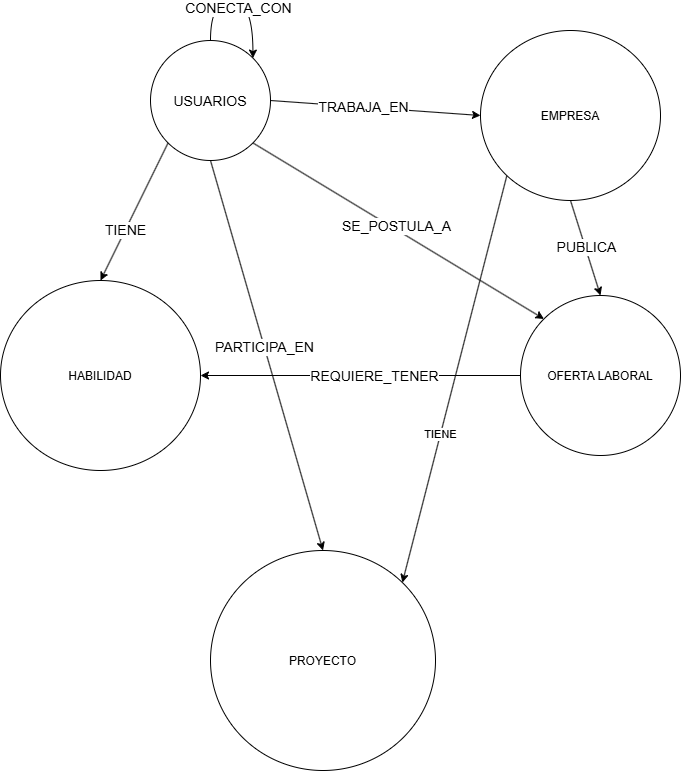
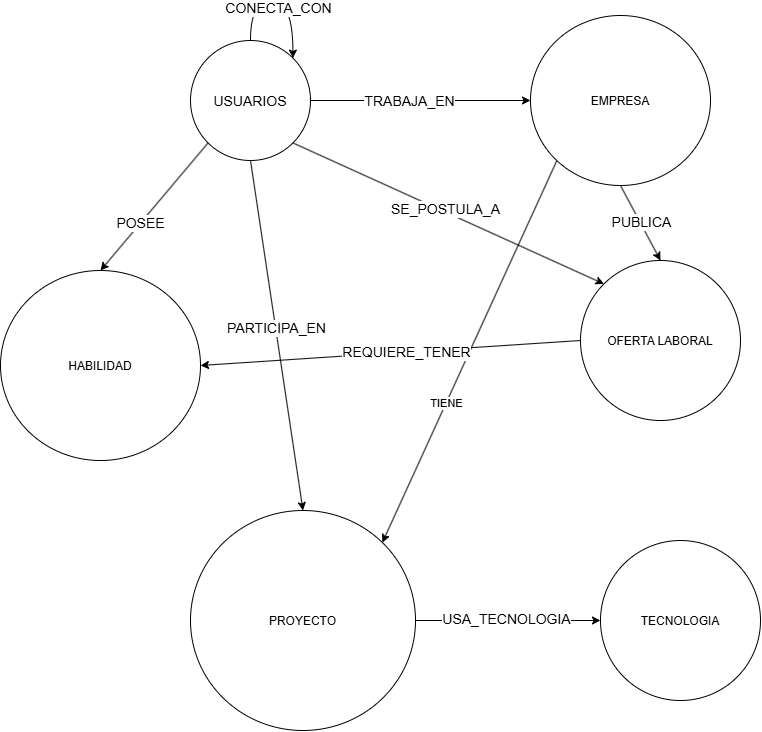
metodos de relaciones añadidos, esquema actualizado

diff --git a/entidades/usuario.py b/entidades/usuario.py
@@ -126,3 +126,48 @@ class Usuario:
         """
         params = {"usuario_id": usuario_id, "oferta_id": oferta_id}
         return db.ejecutar_consulta(query, params)
+    
+    def desvincular_conecta_con(self, usuario1_id: str, usuario2_id: str) -> List[Dict[str, Any]]:
+        """Elimina la relación: (:Usuario)-[:CONECTA_CON]->(:Usuario)"""
+        query = """
+        MATCH (u1:Usuario {id: $u1_id})-[r:CONECTA_CON]-(u2:Usuario {id: $u2_id})
+        DELETE r
+        """
+        params = {"u1_id": usuario1_id, "u2_id": usuario2_id}
+        return db.ejecutar_consulta(query, params)
+
+    def desvincular_trabaja_en(self, usuario_id: str, empresa_id: str) -> List[Dict[str, Any]]:
+        """Elimina la relación: (:Usuario)-[:TRABAJA_EN]->(:Empresa)"""
+        query = """
+        MATCH (u:Usuario {id: $u_id})-[r:TRABAJA_EN]->(e:Empresa {id: $e_id})
+        DELETE r
+        """
+        params = {"u_id": usuario_id, "e_id": empresa_id}
+        return db.ejecutar_consulta(query, params)
+
+    def desvincular_posee(self, usuario_id: str, habilidad_id: str) -> List[Dict[str, Any]]:
+        """Elimina la relación: (:Usuario)-[:POSEE]->(:Habilidad)"""
+        query = """
+        MATCH (u:Usuario {id: $u_id})-[r:POSEE]->(h:Habilidad {id: $h_id})
+        DELETE r
+        """
+        params = {"u_id": usuario_id, "h_id": habilidad_id}
+        return db.ejecutar_consulta(query, params)
+
+    def desvincular_participa_en(self, usuario_id: str, proyecto_id: str) -> List[Dict[str, Any]]:
+        """Elimina la relación: (:Usuario)-[:PARTICIPA_EN]->(:Proyecto)"""
+        query = """
+        MATCH (u:Usuario {id: $u_id})-[r:PARTICIPA_EN]->(p:Proyecto {id: $p_id})
+        DELETE r
+        """
+        params = {"u_id": usuario_id, "p_id": proyecto_id}
+        return db.ejecutar_consulta(query, params)
+
+    def desvincular_se_postula_a(self, usuario_id: str, oferta_id: str) -> List[Dict[str, Any]]:
+        """Elimina la relación: (:Usuario)-[:SE_POSTULA_A]->(:OfertaLaboral)"""
+        query = """
+        MATCH (u:Usuario {id: $u_id})-[r:SE_POSTULA_A]->(o:OfertaLaboral {id: $o_id})
+        DELETE r
+        """
+        params = {"u_id": usuario_id, "o_id": oferta_id}
+        return db.ejecutar_consulta(query, params)

diff --git a/entidades/oferta_laboral.py b/entidades/oferta_laboral.py
@@ -88,3 +88,21 @@ class OfertaLaboral:
         """
         params = {"oferta_id": oferta_id, "habilidad_id": habilidad_id}
         return db.ejecutar_consulta(query, params)
+    
+    def desvincular_requiere_tener(self, oferta_id: str, habilidad_id: str) -> List[Dict[str, Any]]:
+        """Elimina la relación: (:OfertaLaboral)-[:REQUIERE_TENER]->(:Habilidad)"""
+        query = """
+        MATCH (o:OfertaLaboral {id: $o_id})-[r:REQUIERE_TENER]->(h:Habilidad {id: $h_id})
+        DELETE r
+        """
+        params = {"o_id": oferta_id, "h_id": habilidad_id}
+        return db.ejecutar_consulta(query, params)
+
+    def desvincular_usa_tecnologia(self, proyecto_id: str, tecnologia_id: str) -> List[Dict[str, Any]]:
+        """Elimina la relación: (:Proyecto)-[:USA_TECNOLOGIA]->(:Tecnologia)"""
+        query = """
+        MATCH (p:Proyecto {id: $p_id})-[r:USA_TECNOLOGIA]->(t:Tecnologia {id: $t_id})
+        DELETE r
+        """
+        params = {"p_id": proyecto_id, "t_id": tecnologia_id}
+        return db.ejecutar_consulta(query, params)

diff --git a/entidades/empresa.py b/entidades/empresa.py
@@ -92,3 +92,21 @@ class Empresa:
         """
         params = {"empresa_id": empresa_id, "proyecto_id": proyecto_id}
         return db.ejecutar_consulta(query, params)
+    
+    def desvincular_publica(self, empresa_id: str, oferta_id: str) -> List[Dict[str, Any]]:
+        """Elimina la relación: (:Empresa)-[:PUBLICA]->(:OfertaLaboral)"""
+        query = """
+        MATCH (e:Empresa {id: $e_id})-[r:PUBLICA]->(o:OfertaLaboral {id: $o_id})
+        DELETE r
+        """
+        params = {"e_id": empresa_id, "o_id": oferta_id}
+        return db.ejecutar_consulta(query, params)
+
+    def desvincular_tiene_proyecto(self, empresa_id: str, proyecto_id: str) -> List[Dict[str, Any]]:
+        """Elimina la relación: (:Empresa)-[:TIENE]->(:Proyecto)"""
+        query = """
+        MATCH (e:Empresa {id: $e_id})-[r:TIENE]->(p:Proyecto {id: $p_id})
+        DELETE r
+        """
+        params = {"e_id": empresa_id, "p_id": proyecto_id}
+        return db.ejecutar_consulta(query, params)

diff --git a/consultas/consultas.py b/consultas/consultas.py
@@ -1,7 +1,3 @@
-"""
-Ejecutar desde la terminal con: python consultas.py
-"""
-
 from pprint import pprint
 from typing import Any, Dict, List, Optional
 

diff --git a/README.md b/README.md
@@ -1,2 +1,24 @@
 # Proyecto_I+D_BD
-Proyecto de investigacion de Bases de Datos no relacionales
+
+## Descripción
+
+Proyecto de investigación sobre bases de datos no relacionales (NoSQL). El trabajo presenta sus conceptos fundamentales, los principales modelos de almacenamiento y los escenarios en los que pueden ser útiles. También permite comparar sus características con las de las bases de datos relacionales.
+
+## Objetivos
+
+- Comprender qué son las bases de datos NoSQL y qué necesidades buscan atender.
+- Identificar los modelos principales: clave-valor, documentos, familias de columnas y grafos.
+- Analizar características como flexibilidad del esquema, escalabilidad, disponibilidad y consistencia.
+- Reconocer ventajas, limitaciones y criterios de selección según los requisitos de cada aplicación.
+
+## Alcance
+
+El proyecto tiene un enfoque de investigación. No se especifica aquí una base de datos, aplicación o implementación concreta; las herramientas, pruebas y resultados se documentarán cuando se definan como parte del trabajo.
+
+## Organización sugerida
+
+1. Introducción a las bases de datos no relacionales.
+2. Descripción y comparación de sus modelos de datos.
+3. Diferencias generales frente al modelo relacional.
+4. Ventajas, limitaciones y casos de uso.
+5. Conclusiones de la investigación.
